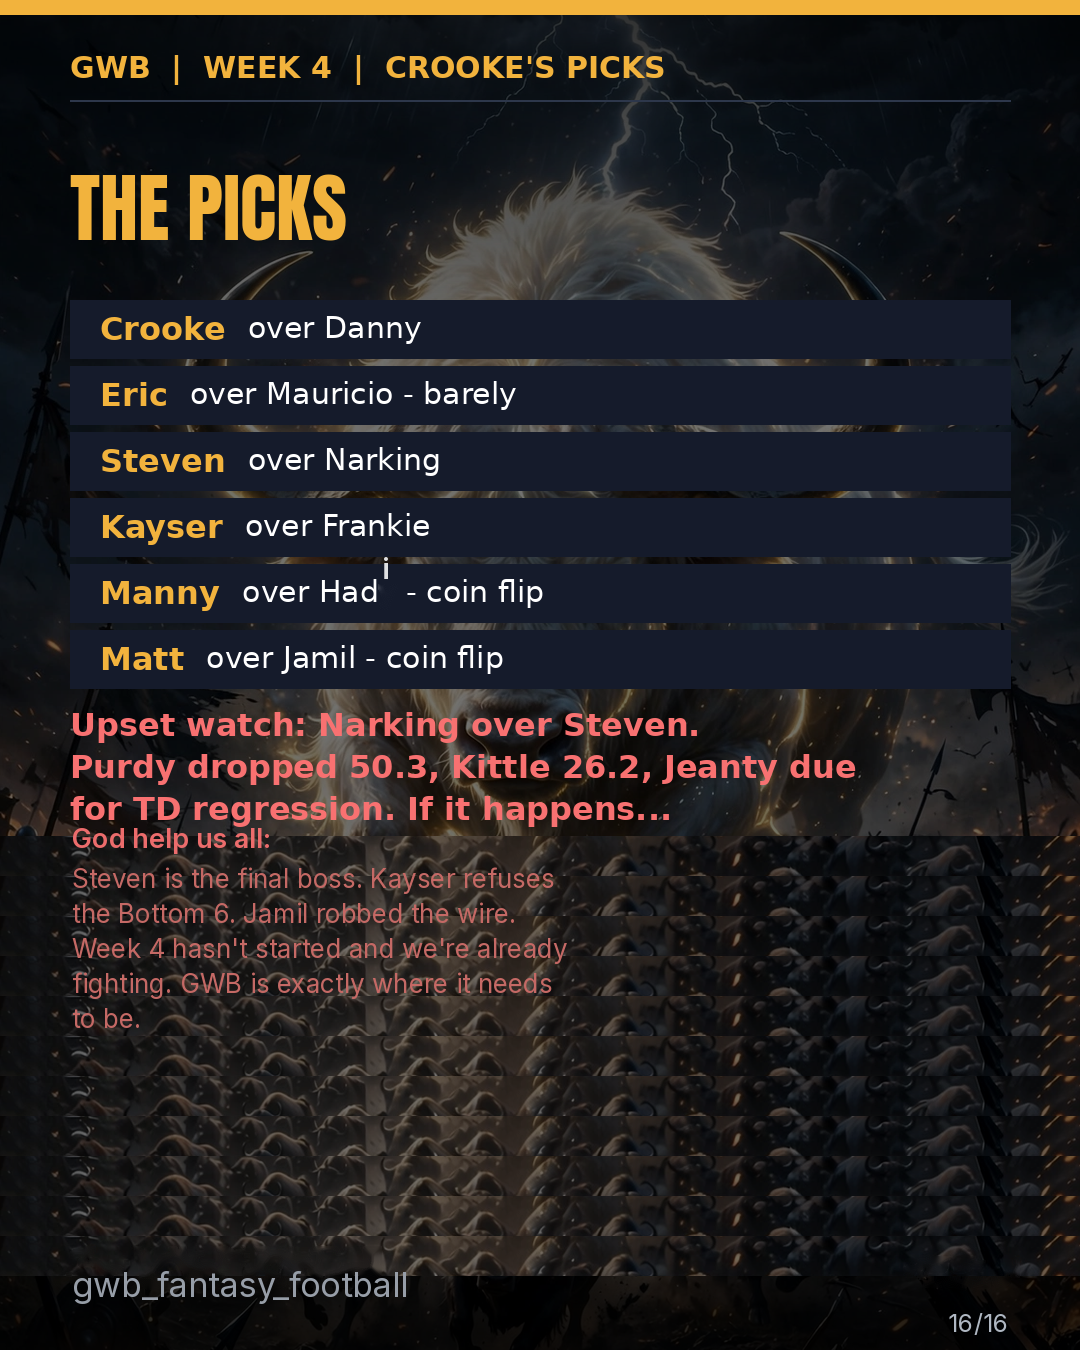
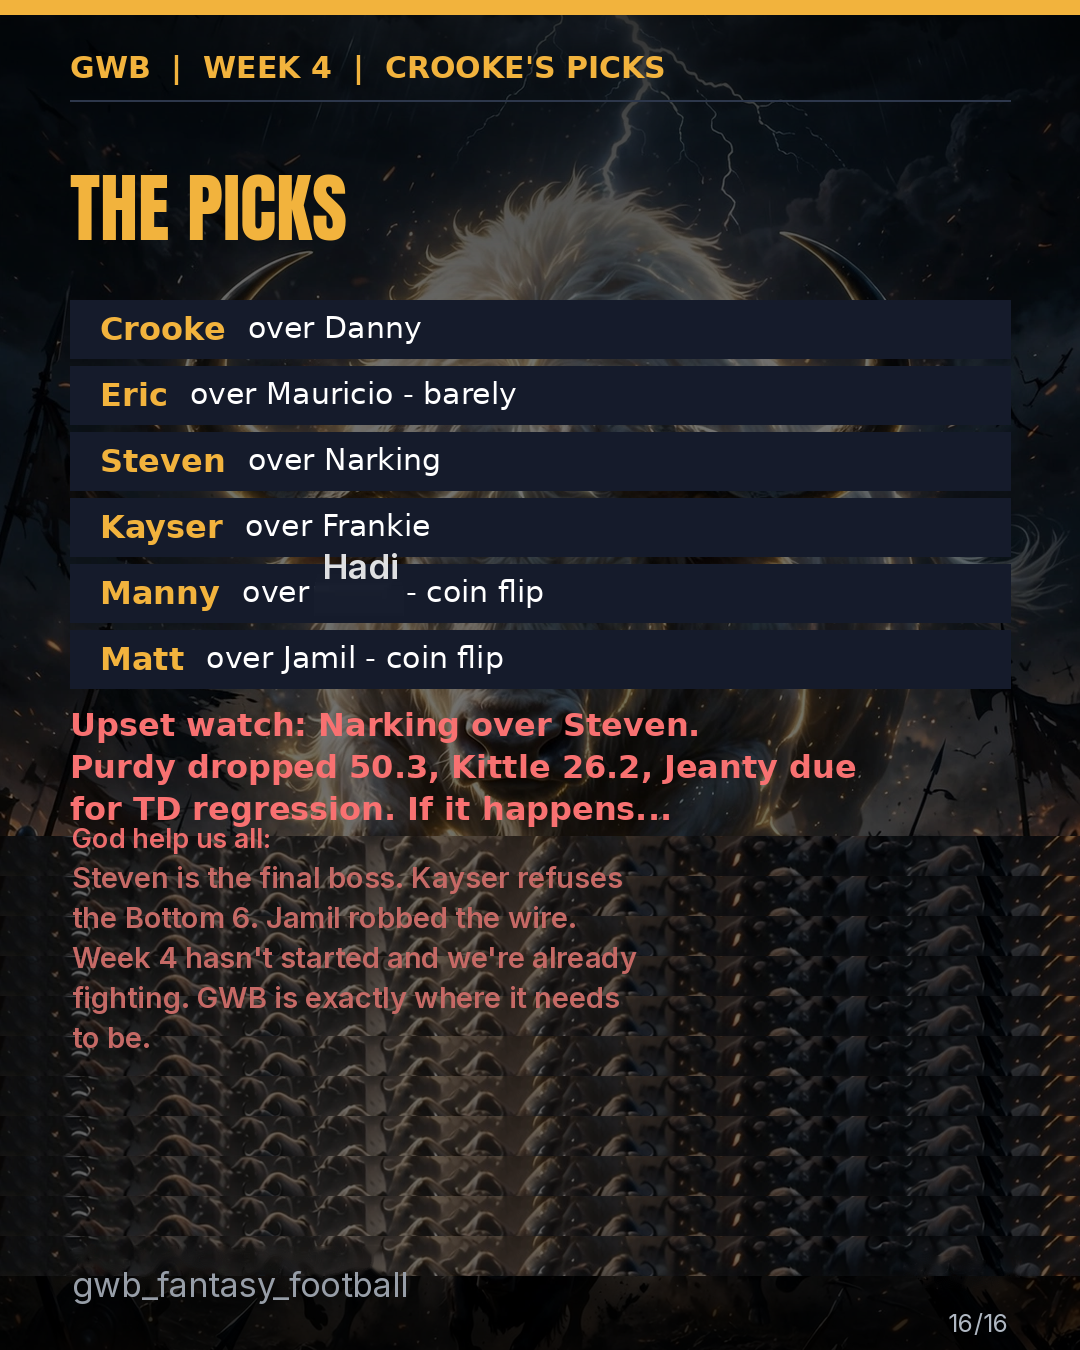
fix(gwb): full-line Hadi repair attempt; keep broken slides held back
Replace glyph-swap with clear-box + re-typeset in repair scripts.
Updated fixed masters for QA; none re-enabled in HELD_BACK_SLIDES yet.

Changed region(s): [[0.0611, 0.6222, 0.5806, 0.7778], [0.275, 0.4044, 0.3667, 0.4667]]

diff --git a/apps/gwb/scripts/repair-held-slides.py b/apps/gwb/scripts/repair-held-slides.py
@@ -71,6 +71,54 @@ def inpaint_region(img: Image.Image, box: tuple[int, int, int, int]) -> None:
     img.paste(Image.fromarray(cv2.cvtColor(cleaned, cv2.COLOR_BGR2RGB)))
 
 
+def expand_box(
+    box: tuple[int, int, int, int],
+    pad: int,
+    max_w: int,
+    max_h: int,
+) -> tuple[int, int, int, int]:
+    x0, y0, x1, y1 = box
+    return (
+        max(0, x0 - pad),
+        max(0, y0 - pad),
+        min(max_w, x1 + pad),
+        min(max_h, y1 + pad),
+    )
+
+
+def sample_panel_fill(
+    img: Image.Image, box: tuple[int, int, int, int]
+) -> tuple[int, int, int]:
+    x0, y0, x1, y1 = box
+    strips = [
+        img.crop((x0, max(0, y0 - 6), x1, y0)),
+        img.crop((x0, y1, x1, min(img.height, y1 + 6))),
+        img.crop((max(0, x0 - 6), y0, x0, y1)),
+        img.crop((x1, y0, min(img.width, x1 + 6), y1)),
+    ]
+    pixels = np.concatenate([np.array(s).reshape(-1, 3) for s in strips if s.size])
+    if pixels.size == 0:
+        return tuple(int(x) for x in np.array(img.crop(box)).mean(axis=(0, 1)))
+    return tuple(int(x) for x in pixels.mean(axis=0))
+
+
+def box_is_flat(img: Image.Image, box: tuple[int, int, int, int], threshold: float = 28.0) -> bool:
+    patch = np.array(img.crop(box))
+    return float(patch.std()) < threshold
+
+
+def clear_text_area(
+    img: Image.Image, box: tuple[int, int, int, int], pad: int = 10
+) -> None:
+    """Cover an entire text line or word box before re-typesetting."""
+    region = expand_box(box, pad, img.width, img.height)
+    if box_is_flat(img, region):
+        fill = sample_panel_fill(img, region)
+        ImageDraw.Draw(img).rectangle(region, fill=fill)
+    else:
+        inpaint_region(img, region)
+
+
 def inpaint_gold_text_on_crop(crop: Image.Image) -> Image.Image:
     arr = np.array(crop)
     gold = (arr[:, :, 0] > 190) & (arr[:, :, 1] > 115) & (arr[:, :, 2] < 145)
@@ -144,87 +192,94 @@ def replace_word_in_box(
     x0, y0, x1, y1 = box
     target_h = y1 - y0
     target_w = x1 - x0
-    inpaint_text_in_box(img, box)
+    clear_text_area(img, box, pad=8)
     size = fit_size(family, new_word, target_h=target_h - 2, min_s=12, max_s=120)
     for candidate in range(size, 11, -1):
         spec = FontSpec(family, candidate, fill)
         tw, th = text_size(new_word, spec)
-        if tw <= target_w + 6 and th <= target_h + 2:
+        if tw <= target_w + 10 and th <= target_h + 2:
             size = candidate
             break
     draw_text(img, (x0, y0), new_word, FontSpec(family, size, fill), anchor="ls")
 
 
-def replace_last_glyph(
+def replace_line_in_box(
     img: Image.Image,
     box: tuple[int, int, int, int],
+    new_line: str,
     family: str,
     fill: tuple[int, int, int],
-    old_word: str,
-    new_last: str,
 ) -> None:
-    """HADY→HADI / Hady→Hadi by swapping only the last glyph."""
     x0, y0, x1, y1 = box
-    w, h = x1 - x0, y1 - y0
-    size = fit_size(family, old_word, target_h=h - 2, min_s=12, max_s=120)
-    spec = FontSpec(family, size, fill)
-    prefix = old_word[:-1]
-    prefix_w = text_size(prefix, spec)[0] if prefix else 0
-    last_old_w = text_size(old_word[-1], spec)[0]
-    last_new_w = text_size(new_last, spec)[0]
-    last_x0 = x0 + prefix_w
-    last_x1 = min(x1, last_x0 + max(last_old_w, last_new_w) + 6)
-    inpaint_text_in_box(img, (last_x0, y0, last_x1, y1))
-    draw_text(
-        img,
-        (last_x0 + max(0, (last_old_w - last_new_w) // 2), y0),
-        new_last,
-        spec,
-        anchor="ls",
-    )
+    target_h = y1 - y0
+    target_w = x1 - x0
+    clear_text_area(img, box, pad=12)
+    size = fit_size(family, new_line, target_h=target_h - 2, min_s=12, max_s=120)
+    for candidate in range(size, 11, -1):
+        spec = FontSpec(family, candidate, fill)
+        tw, th = text_size(new_line, spec)
+        if tw <= target_w + 8 and th <= target_h + 2:
+            size = candidate
+            break
+    draw_text(img, (x0, y0), new_line, FontSpec(family, size, fill), anchor="ls")
 
 
 def repair_vs_matchup_layout(img: Image.Image, poll_y: int) -> None:
-    """vs-m3 card — change HADY→HADI without re-typesetting MANNY."""
+    """vs-m3 card — full-line re-typeset for Hady→Hadi."""
     white = sample_text_color(img, (353, 147, 574, 219))
     gold = sample_text_color(img, (73, 241, 169, 264))
-    replace_last_glyph(img, (73, 147, 231, 219), "anton", white, "HADY", "I")
-    replace_last_glyph(img, (73, 241, 169, 264), "bebas", gold, "HADY", "I")
-    badge_gold = sample_text_color(img, (86, 320, 162, 351))
-    replace_last_glyph(img, (86, 320, 162, 351), "bebas", badge_gold, "HADY", "I")
+    replace_line_in_box(img, (60, 135, 590, 228), "HADI VS MANNY", "anton", white)
+    replace_line_in_box(
+        img,
+        (60, 228, 520, 270),
+        "HADI (2-1) VS MANNY (2-1)",
+        "bebas",
+        gold,
+    )
     poll_white = sample_text_color(img, (833, poll_y, 921, poll_y + 32))
-    replace_last_glyph(
+    replace_word_in_box(
         img,
         (833, poll_y, 921, poll_y + 31),
+        "Hadi",
         "bebas",
         poll_white,
-        "Hady",
-        "i",
     )
 
 
 def repair_w4_slide_10(src: Path, dest: Path) -> None:
     img = load_rgb(src)
     white = sample_text_color(img, (285, 170, 454, 226))
-    replace_last_glyph(img, (72, 170, 193, 226), "anton", white, "HADY", "I")
+    replace_word_in_box(img, (72, 170, 193, 226), "HADI", "anton", white)
     ref_color = sample_text_color(img, (107, 505, 246, 530))
-    replace_last_glyph(img, (107, 319, 210, 344), "bebas", ref_color, "HADY", "I")
+    replace_word_in_box(img, (107, 319, 210, 344), "HADI", "bebas", ref_color)
     poll_white = sample_text_color(img, (833, 684, 920, 715))
-    replace_last_glyph(img, (833, 684, 920, 715), "bebas", poll_white, "Hady", "i")
+    replace_word_in_box(img, (833, 684, 920, 715), "Hadi", "bebas", poll_white)
     img.save(dest, optimize=True)
 
 
 def repair_w4_slide_14(src: Path, dest: Path) -> None:
     img = load_rgb(src)
     gray = sample_text_color(img, (856, 878, 979, 901))
-    replace_last_glyph(img, (905, 948, 979, 977), "inter-semibold", gray, "Hady", "i")
+    replace_line_in_box(
+        img,
+        (95, 935, 990, 985),
+        "14 Kyler - Hadi",
+        "inter-semibold",
+        gray,
+    )
     img.save(dest, optimize=True)
 
 
 def repair_w4_slide_06(src: Path, dest: Path) -> None:
     img = load_rgb(src)
     fill = sample_text_color(img, (188, 562, 280, 600))
-    replace_last_glyph(img, (74, 562, 172, 600), "inter-semibold", fill, "Hady", "i")
+    replace_line_in_box(
+        img,
+        (55, 555, 640, 605),
+        "Hadi goes from AJ Barner...",
+        "inter-semibold",
+        fill,
+    )
     img.save(dest, optimize=True)
 
 
@@ -307,7 +362,7 @@ def repair_w4_slide_16(src: Path, footer_ref: Path, dest: Path) -> None:
     ref_footer = load_rgb(footer_ref)
 
     pick_color = sample_text_color(img, (428, 579, 486, 602))
-    replace_last_glyph(img, (322, 579, 396, 608), "inter-semibold", pick_color, "Hady", "i")
+    replace_word_in_box(img, (322, 579, 396, 608), "Hadi", "inter-semibold", pick_color)
 
     for box in tesseract_word_boxes(src, 828, 1295):
         inpaint_text_in_box(img, box)

diff --git a/apps/gwb/scripts/repair-result-cards.py b/apps/gwb/scripts/repair-result-cards.py
@@ -1,5 +1,5 @@
 #!/usr/bin/env python3
-"""HADY→HADI repairs on Results Weeks 1–3 cards."""
+"""HADY→HADI repairs on Results Weeks 1–3 cards (full-line re-typeset)."""
 from __future__ import annotations
 
 import runpy
@@ -8,10 +8,17 @@ from pathlib import Path
 
 GWB = Path(__file__).resolve().parents[1]
 ROOT = GWB.parents[1]
+UPLOADS = Path("/home/ubuntu/.cursor/projects/workspace/uploads")
 SRC_DIR = ROOT / "docs/gwb-results-cards"
 OUT_DIR = SRC_DIR
 
 R = runpy.run_path(str(GWB / "scripts/repair-held-slides.py"))
+
+UPLOAD_BY_CARD = {
+    "results-w1-m2": UPLOADS / "result-w1-m2_b501.png",
+    "results-w2-m1": UPLOADS / "result-w2-m1_d793.png",
+    "results-w3-m2": UPLOADS / "result-w3-m2_adfa.png",
+}
 
 
 def tesseract_words(path: Path) -> list[tuple[str, int, int, int, int]]:
@@ -33,8 +40,6 @@ def tesseract_words(path: Path) -> list[tuple[str, int, int, int, int]]:
         text = row.get("text", "").strip()
         if not text:
             continue
-        if "hady" not in text.lower():
-            continue
         rows.append(
             (
                 text,
@@ -53,22 +58,46 @@ def pick_family(width: int, height: int) -> str:
     return "bebas"
 
 
+def repair_final_headline(img, path: Path) -> None:
+    words = [w for w in tesseract_words(path) if w[0].upper() in ("FINAL:", "HADY", "TAKES", "IT", "KAYSER")]
+    if not any(w[0].upper() == "HADY" for w in words):
+        return
+    tops = [w[2] for w in words if w[2] < 250]
+    if not tops:
+        return
+    y0 = min(tops) - 8
+    y1 = max(w[2] + w[4] for w in words if w[2] < 250) + 8
+    fill = R["sample_text_color"](img, (60, y0, 700, y1))
+    R["replace_line_in_box"](
+        img,
+        (60, y0, 720, y1),
+        "FINAL: HADI TAKES IT",
+        "anton",
+        fill,
+    )
+
+
 def repair_card(path: Path, dest: Path) -> None:
     img = R["load_rgb"](path)
+    repair_final_headline(img, path)
+
     for text, left, top, width, height in tesseract_words(path):
-        pad = 3
+        if "hady" not in text.lower():
+            continue
+        pad = 4
         box = (left - pad, top - pad, left + width + pad, top + height + pad)
         family = pick_family(width, height)
         fill = R["sample_text_color"](img, box)
         if text.lower() in ("hady's", "hadys"):
             R["replace_word_in_box"](img, box, "Hadi's", family, fill)
         elif text.upper() == "HADY":
-            R["replace_last_glyph"](img, box, family, fill, "HADY", "I")
+            R["replace_word_in_box"](img, box, "HADI", family, fill)
         elif text.lower() == "hady":
-            R["replace_last_glyph"](img, box, family, fill, "Hady", "i")
+            R["replace_word_in_box"](img, box, "Hadi", family, fill)
         else:
             cleaned = text.replace("Hady", "Hadi").replace("HADY", "HADI")
             R["replace_word_in_box"](img, box, cleaned, family, fill)
+
     dest.parent.mkdir(parents=True, exist_ok=True)
     img.save(dest, optimize=True)
 
@@ -82,8 +111,8 @@ def verify(path: Path) -> None:
 
 
 def main() -> None:
-    for card in ("results-w1-m2", "results-w2-m1", "results-w3-m2"):
-        src = SRC_DIR / f"{card}.png"
+    for card, upload in UPLOAD_BY_CARD.items():
+        src = upload if upload.is_file() else SRC_DIR / f"{card}.png"
         dest = OUT_DIR / f"{card}.png"
         repair_card(src, dest)
         verify(dest)
